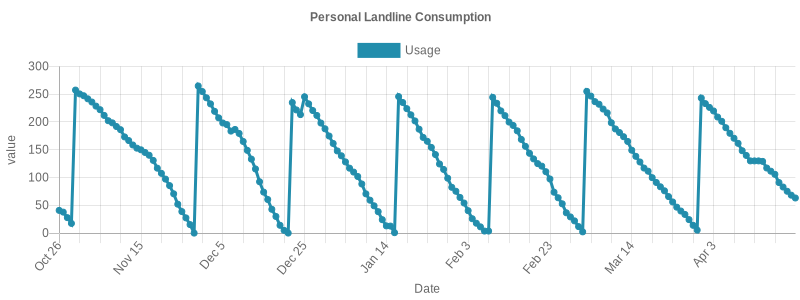
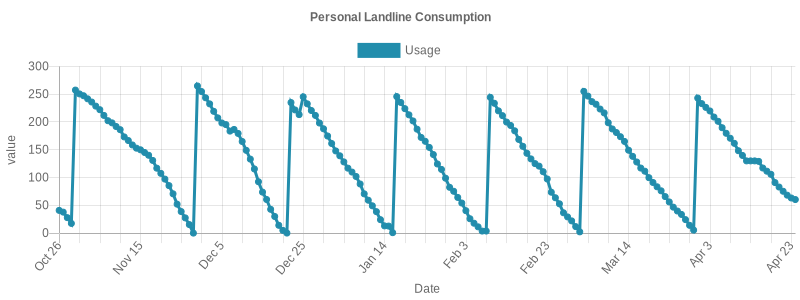
update logs

diff --git a/quota-logs/README.md b/quota-logs/README.md
@@ -179,3 +179,4 @@
 ## Sun Apr 21 2024 00:34:59 GMT+0200|75.28/250
 ## Mon Apr 22 2024 00:34:27 GMT+0200|68.25/250
 ## Tue Apr 23 2024 00:35:28 GMT+0200|63.2/250
+## Wed Apr 24 2024 00:34:52 GMT+0200|60.38/250
